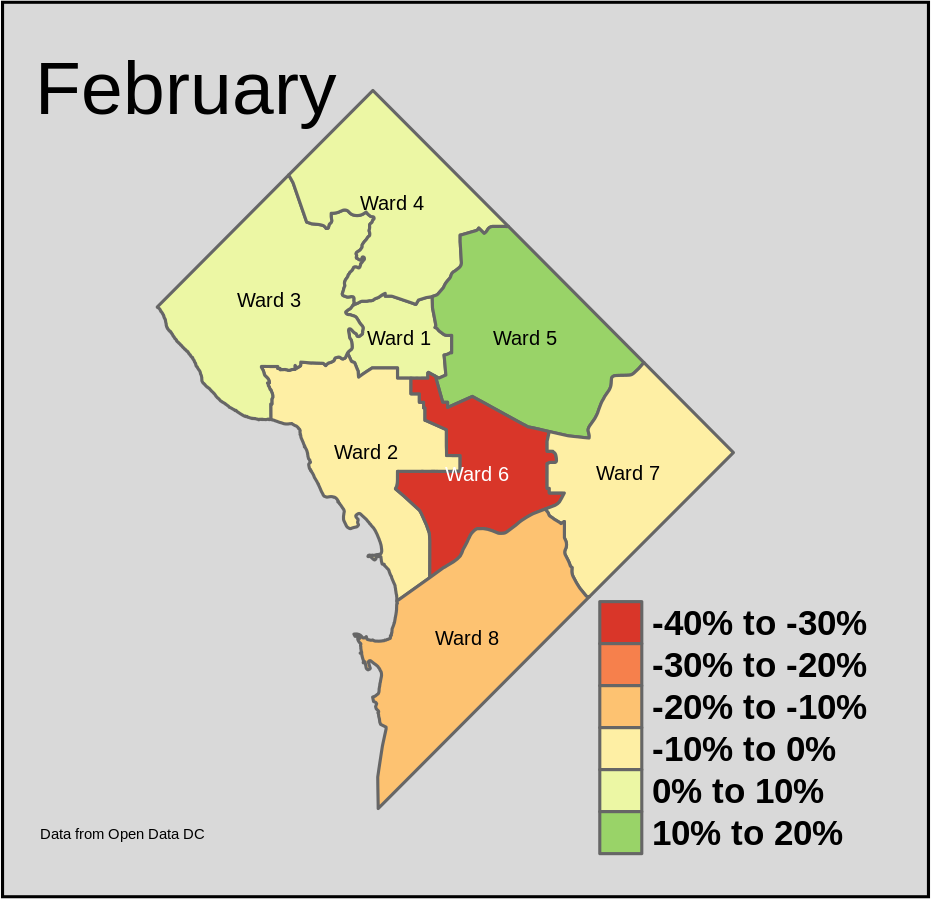
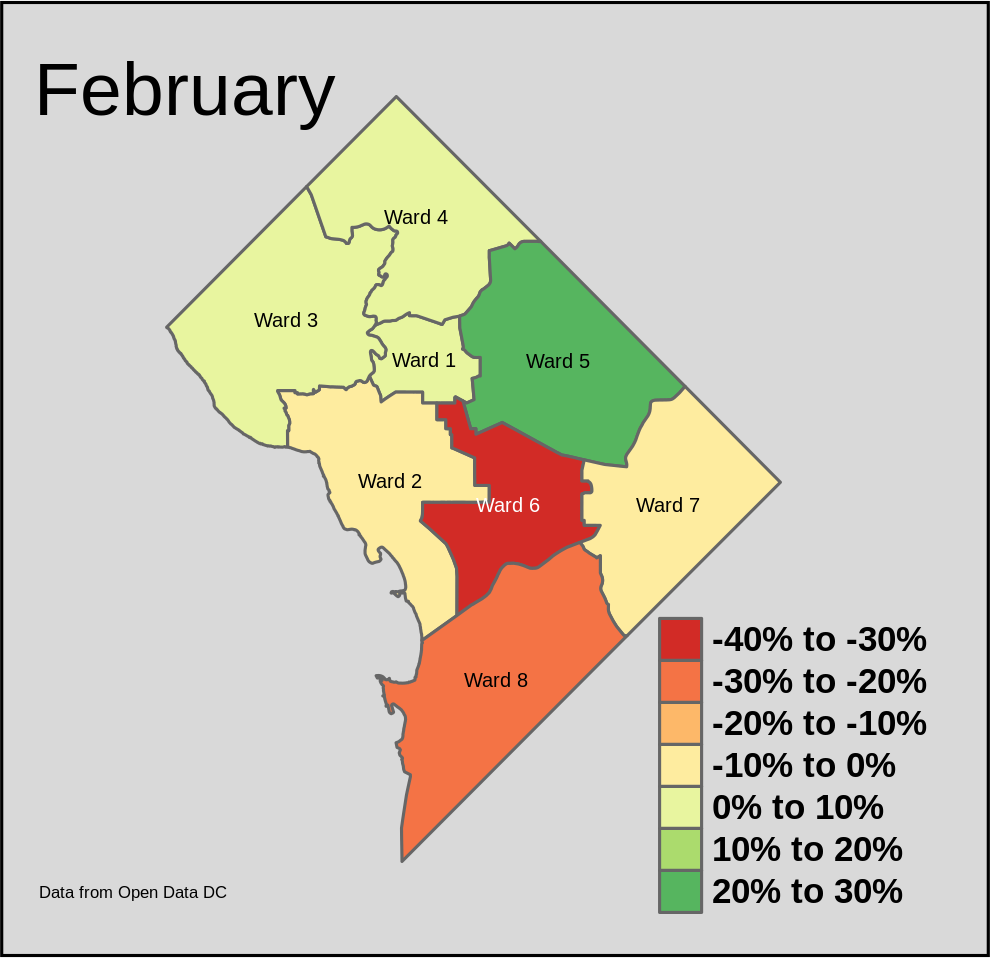
Modifying DC Moving Violations post

diff --git a/DC_Moving_Violations_Covid-19/DC_Moving_Violations_Covid-19.html b/DC_Moving_Violations_Covid-19/DC_Moving_Violations_Covid-19.html
@@ -1,7 +1,7 @@
 <!DOCTYPE html>
 <html lang="en-us">
   <head>
-    <title>Covid-19 Impacts in DC Moving Violations</title>
+    <title>Covid-19 Impacts in DC moving violations</title>
     <meta charset="utf-8">
     <meta name="viewport" content="width=device-width, initial-scale=1, shrink-to-fit=no">
     <link href="https://fonts.googleapis.com/css?family=EB+Garamond:400,400i,700&display=swap" rel="stylesheet">
@@ -35,14 +35,14 @@
         <div class="col">
             <div class="row d-flex justify-content-center">
                 <div class="col-md-9 col-sm-12">
-                  <h1>Covid-19 Impacts in DC Moving Violations</h1>
-        <h2 id="blog-post-subtitle">Moving Violations spike, then drop as pandemic and social distancing set in</h2>
+                  <h1>Covid-19 Impacts in DC moving violations</h1>
+        <h2 id="blog-post-subtitle">Despite Covid-19 shutdowns and shelter-in-place orders, moving violations spike</h2>
         <div id="modal">
           <span class="close">&times;</span>
           <img id="modalImg">
           <div id="captionText"></div>
         </div>
-<p>Almost three months after Governors Hogan and Northam and Mayor Bowser issued stay-at-home orders, it is starting to become apparent just how much the pandemic has impacted transportation in the Washington region. WMATA has <a class = "article-links" href="https://www.wmata.com/service/covid19/covid-19-public-information.cfm">documented</a> an over 90% reduction in Metro ridership and 70% reduction in MetroBus ridership in the month of April. Uber ridership is down <a class="article-links" href="https://www.washingtonpost.com/technology/2020/03/19/uber-coronavirus-analyst-call/">as much as 70%</a> in many metropolitan areas, including DC. Thanks to Metro PD data available through the <a class = "article-links" href="https://opendata.dc.gov/">Open Data DC portal</a>, moving violations throughout the city have been impacted as well. Overall, year-over-year moving violations were relatively flat from February 2019 to February 2020, falling 2.9%. However, there was a 37.5% year-over-year increase in March, followed by an 18% decrease in April.</p>
+<p>Almost three months after Governor Hogan, Governor Northam, and Mayor Bowser’s issuance of stay-at-home orders, it is starting to become apparent just how much the pandemic has impacted transportation in the Washington region. WMATA has <a class = "article-links" href="https://www.wmata.com/service/covid19/covid-19-public-information.cfm">documented</a> an over 90% reduction in Metro ridership and 70% reduction in MetroBus ridership in the month of April. Uber ridership is down <a class="article-links" href="https://www.washingtonpost.com/technology/2020/03/19/uber-coronavirus-analyst-call/">as much as 70%</a> in many metropolitan areas, including DC. Thanks to Metro PD data available through the <a class = "article-links" href="https://opendata.dc.gov/">Open Data DC portal</a>, we know that vehicle moving violations throughout the city have been impacted as well. However, contrary to the conventional wisdom of a decrease in since the outbreak of Covid-19, violations have in fact risen from March and April of this year as compared to last year. Overall, year-over-year moving violations have increased 37.9% in March, followed by another spike of 17.4% in April.</p>
 </div></div>
 
 <div class="row d-flex justify-content-center" style="padding: 50px 50px;">
@@ -64,11 +64,11 @@
 </div>
 
 <div class="row d-flex justify-content-center"><div class="col-md-9 col-sm-12">
-<p>The breakout of year-over-year citations by Ward gives some insight into where these fluctuations in violations are occurring. February violations are pretty stable across all the Wards except for a 60% reduction in Ward 6 bringing down the year-over-year totals. In March, most Wards actually had a slight reduction over last year as the shutdown started to sweep over the city. However, this was offset by massive increases in Ward 8 and especially Ward 6 with increases of 121% and 219%, respectively. Lastly, in April citations fell in every single Ward between 12.9% and 50.3%, except for Ward 8 which had an increase of 62.6%.</p>
+<p>The breakout of year-over-year citations by Ward gives some insight into where these fluctuations in violations are occurring. The percentage change of violations from February 2019 to 2020 were pretty stable across all the Wards except for a 25.9% increase in Ward 5 being offset by a 27.2% and 33.1% decrease in violations in Ward 6 and 8, respectively. In March, as general shutdowns and closures started to sweep the city, most Wards had either minor increases or decreases over last year. However, Wards 5, 8, and especially Ward 6 saw massive increases over the prior year of 55.7%, 97.1%, and 222%, respectively. Lastly, April saw most Wards reflect a moderate decline in moving violations, with Wards 5 and 8 bucking that trend and experiencing a 34.6% and 117% increase, respectively. The rise of violations in specific Wards, notably Ward 6 and Ward 8, were the driving force behind the overall year-over-year rise in both March and April from 2019 to 2020.</p>
 </div></div>
 
 <div class="row d-flex justify-content-center"><div class="col-md-9 col-sm-12">
-<p>Looking into the most frequent citation location for each month, it’s clear the driving habits of DC drivers changed starting in March. The most frequent location of moving violation citations in February through April of 2019 and February of 2020 was 600 Kenilworth Avenue, NE, which is the location of what has been the <a class="article-links" href="https://www.dcpolicycenter.org/publications/speed-cameras-in-d-c/">highest revenue producing</a> speed camera in the city. However, in March 2020 the speed camera on I-395 going eastbound after exit 4 (Maine Avenue by Nats Park) was by far the most frequent location with 27,691 citations. The speed camera at this location alone made up almost 20% of the citations given in that month alone and had almost three times as many citations as the next most frequent location across the six months of February through April in 2019 and 2020. In April, the driving force behind Ward 8 being the only Ward with a year-over-year increase in citations was due to the speed camera on I-295 going southbound about 0.4 miles south of exit 2 (South Capital Street/JB Anacostia-Bolling Naval station).</p>
+<p>Looking into the most frequent citation location for each month, it’s clear the driving habits of DC drivers changed starting in March. The most frequent location of moving violation citations in February through April of 2019 and February of 2020 was 600 Kenilworth Avenue, NE, which is the location of what has been the <a class="article-links" href="https://www.dcpolicycenter.org/publications/speed-cameras-in-d-c/">highest revenue producing</a> speed camera in the city. However, in March 2020 the speed camera on I-395 going eastbound after exit 4 (Maine Avenue by Nats Park) was by far the most frequent location with 27,691 citations. The speed camera at this location alone made up just over 19% of the citations given in that month and had over twice as many citations as the next most frequent location across the six months of February through April in 2019 and 2020. In April, the main factor behind the major increase in Ward 8 violations was due to the 12,937 that were issued solely by the speed camera on I-295 going southbound about 0.4 miles south of exit 2 (South Capital Street/JB Anacostia-Bolling Naval station).</p>
 </div></div>
 
 <div class="row d-flex justify-content-center" style="padding: 50px 50px;"><div class="col-md-9 col-sm-12">
@@ -76,7 +76,7 @@
 </div></div>
 
 <div class="row d-flex justify-content-center"><div class="col-md-9 col-sm-12">
-<p>In terms of what types of moving violations constitute these changes in the past few months, the vast majority of citations are given for speeding, specifically 11-15 mph over the speed limit. Speeding violations of that speed increased by 41% from March 2019 to March 2020 and by 16.9% for all speeding violations between 11-25 mph. Conversely, 11-15mph speeding violations fell 20.6% and all speeding violations 17.1% between April 2019 and 2020.</p>
+<p>In terms of what types of moving violations constitute these changes in the past few months, the bulk of violations that are committed are for speeding, specifically travelling 11-15 mph over the speed limit. Speeding violations of that speed range increased by 41.1% from March 2019 to March 2020 and by 47.4% for all speeding violations. Additionally, 11-15mph speeding violations rose 15.8% and 21.1% for all speeding violations between April 2019 and 2020.</p>
 </div></div>
 
 <div class="row d-flex justify-content-center" style="padding: 50px 50px;"><div class="col-md-9 col-sm-12">
@@ -92,7 +92,7 @@
 </div></div>
 
 <div class="row d-flex justify-content-center"><div class="col-md-9 col-sm-12">
-<p>As the Covid-19 pandemic began to set in throughout the DC region, data shows drivers collecting more moving violations -- especially on I-395 eastbound into Ward 6 -- throughout March as shutdowns of local business and stay-in-place orders began to take effect. However, in April moving violations began to drop off throughout the city, aside from the uptick mainly on the I-295 corridor in Ward 8.</p>
+<p>As the Covid-19 pandemic began to set in throughout the DC region, data shows that instead of moving violations decreasing, drivers collected more moving violations throughout both March and April. Moreover, these increases have been driven in large part due to significant boosts in speeding violations, especially on I-395 eastbound into Ward 6 and the I-295 corridor in Ward 8.</p>
 </div></div>
 
 <div class="row d-flex justify-content-center"><div class="col-md-9 col-sm-12">
